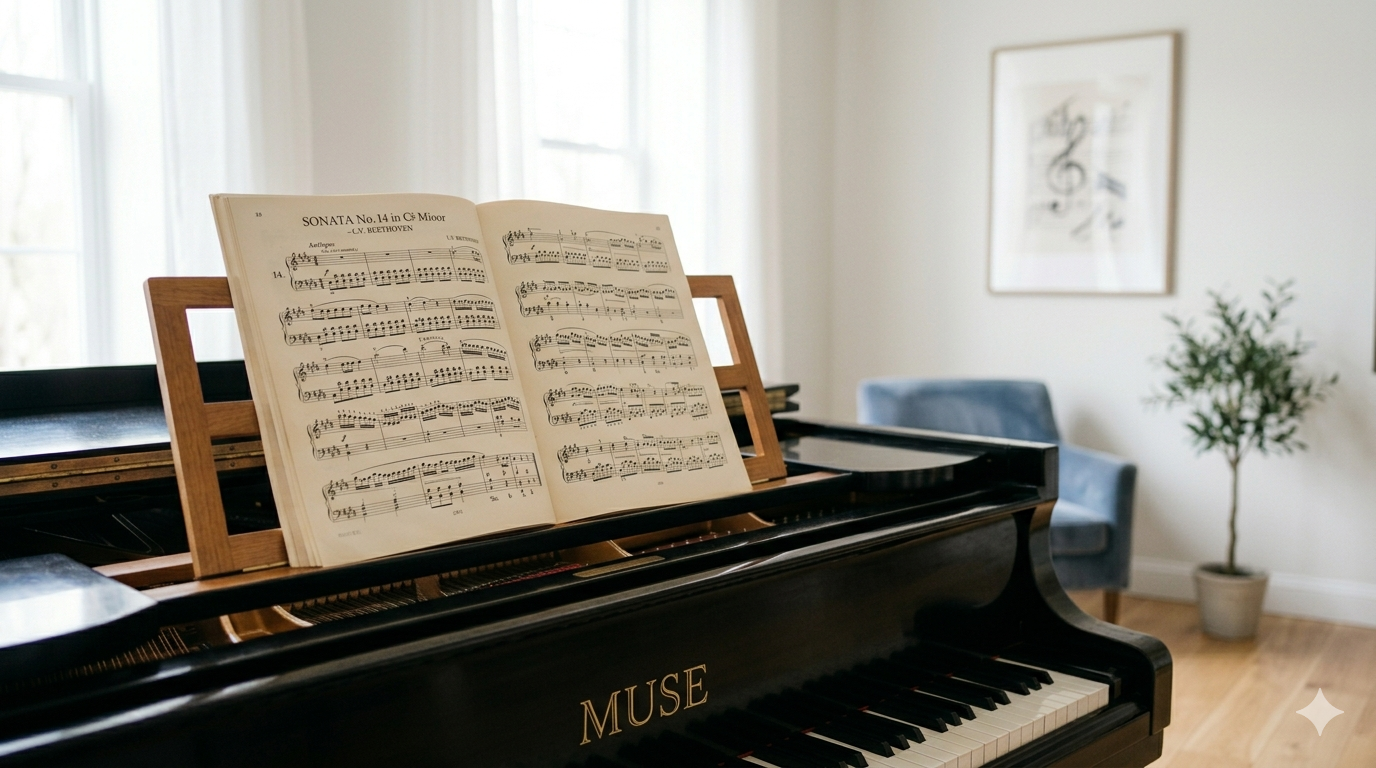
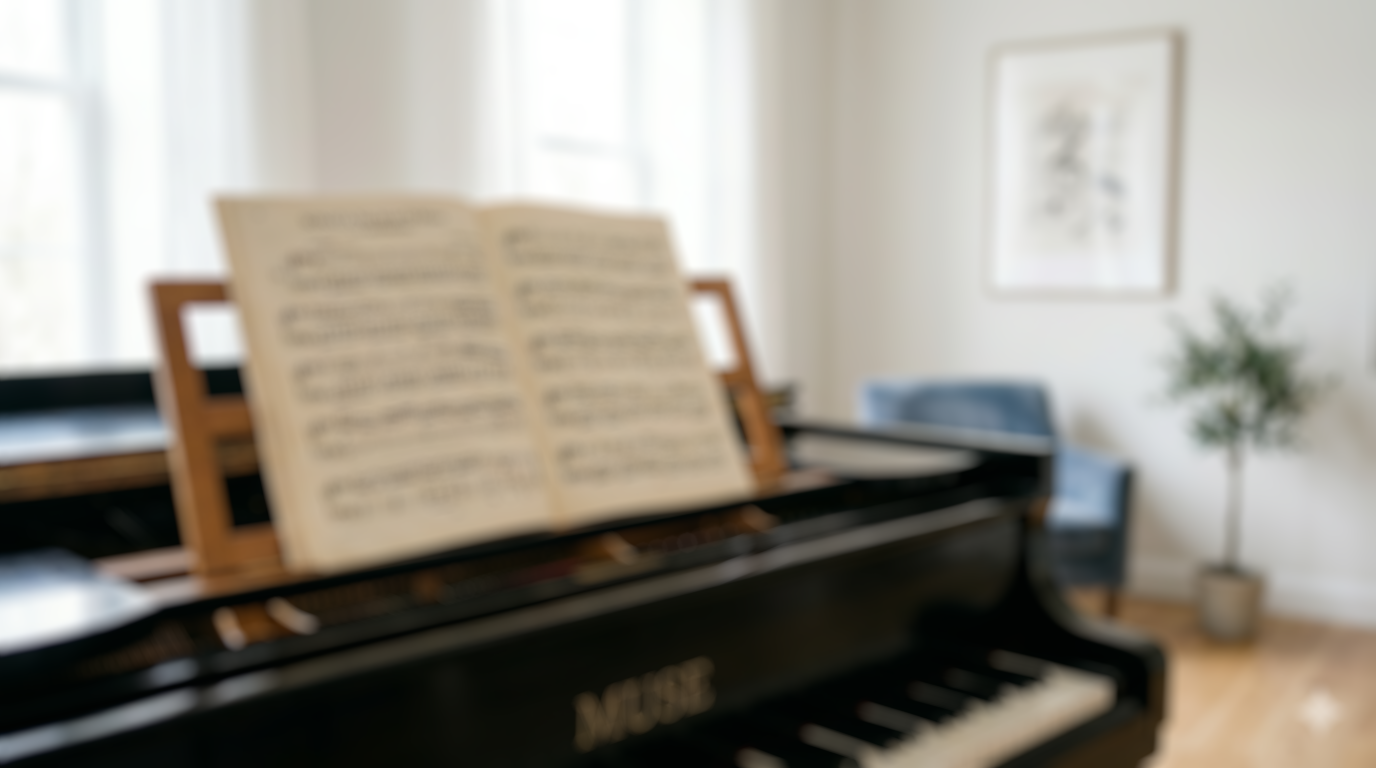
style: set image as background

diff --git a/editor/src/main/resources/com/muse/editor/styles/app.css b/editor/src/main/resources/com/muse/editor/styles/app.css
@@ -1,0 +1,6 @@
+.app {
+    -fx-background-image: url('../assets/images/bg.png');
+    -fx-background-repeat: no-repeat;
+    -fx-background-size: cover;
+    -fx-background-position: center;
+}